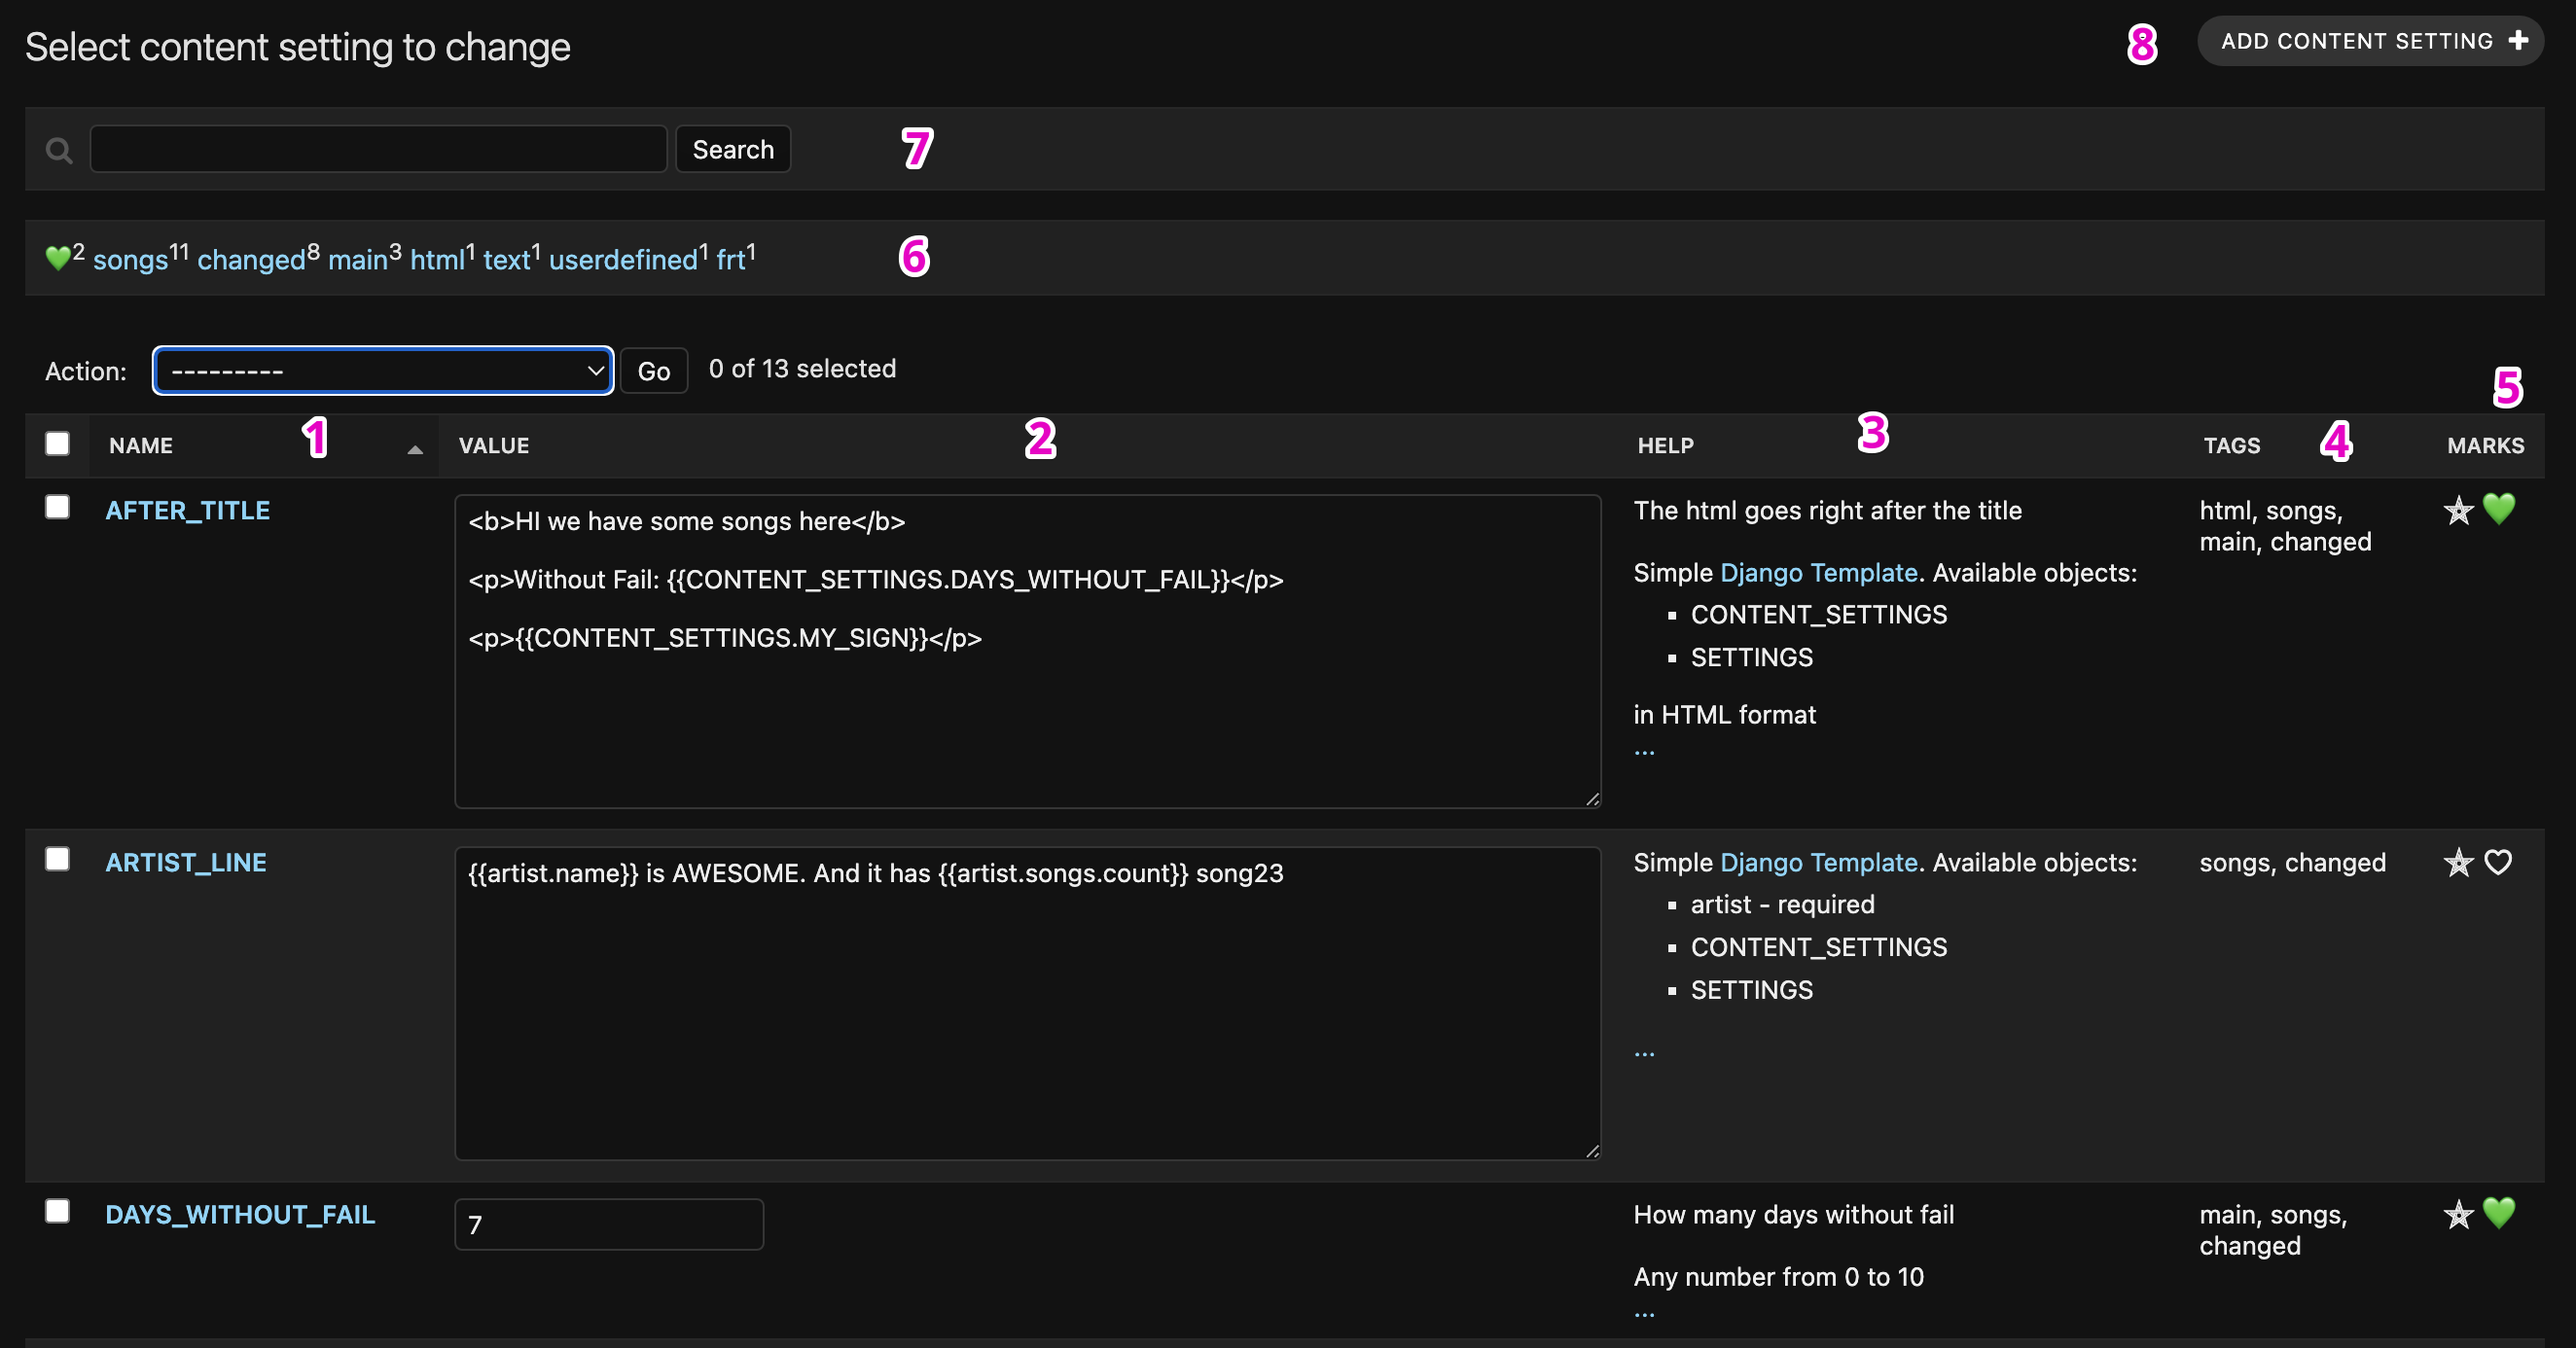
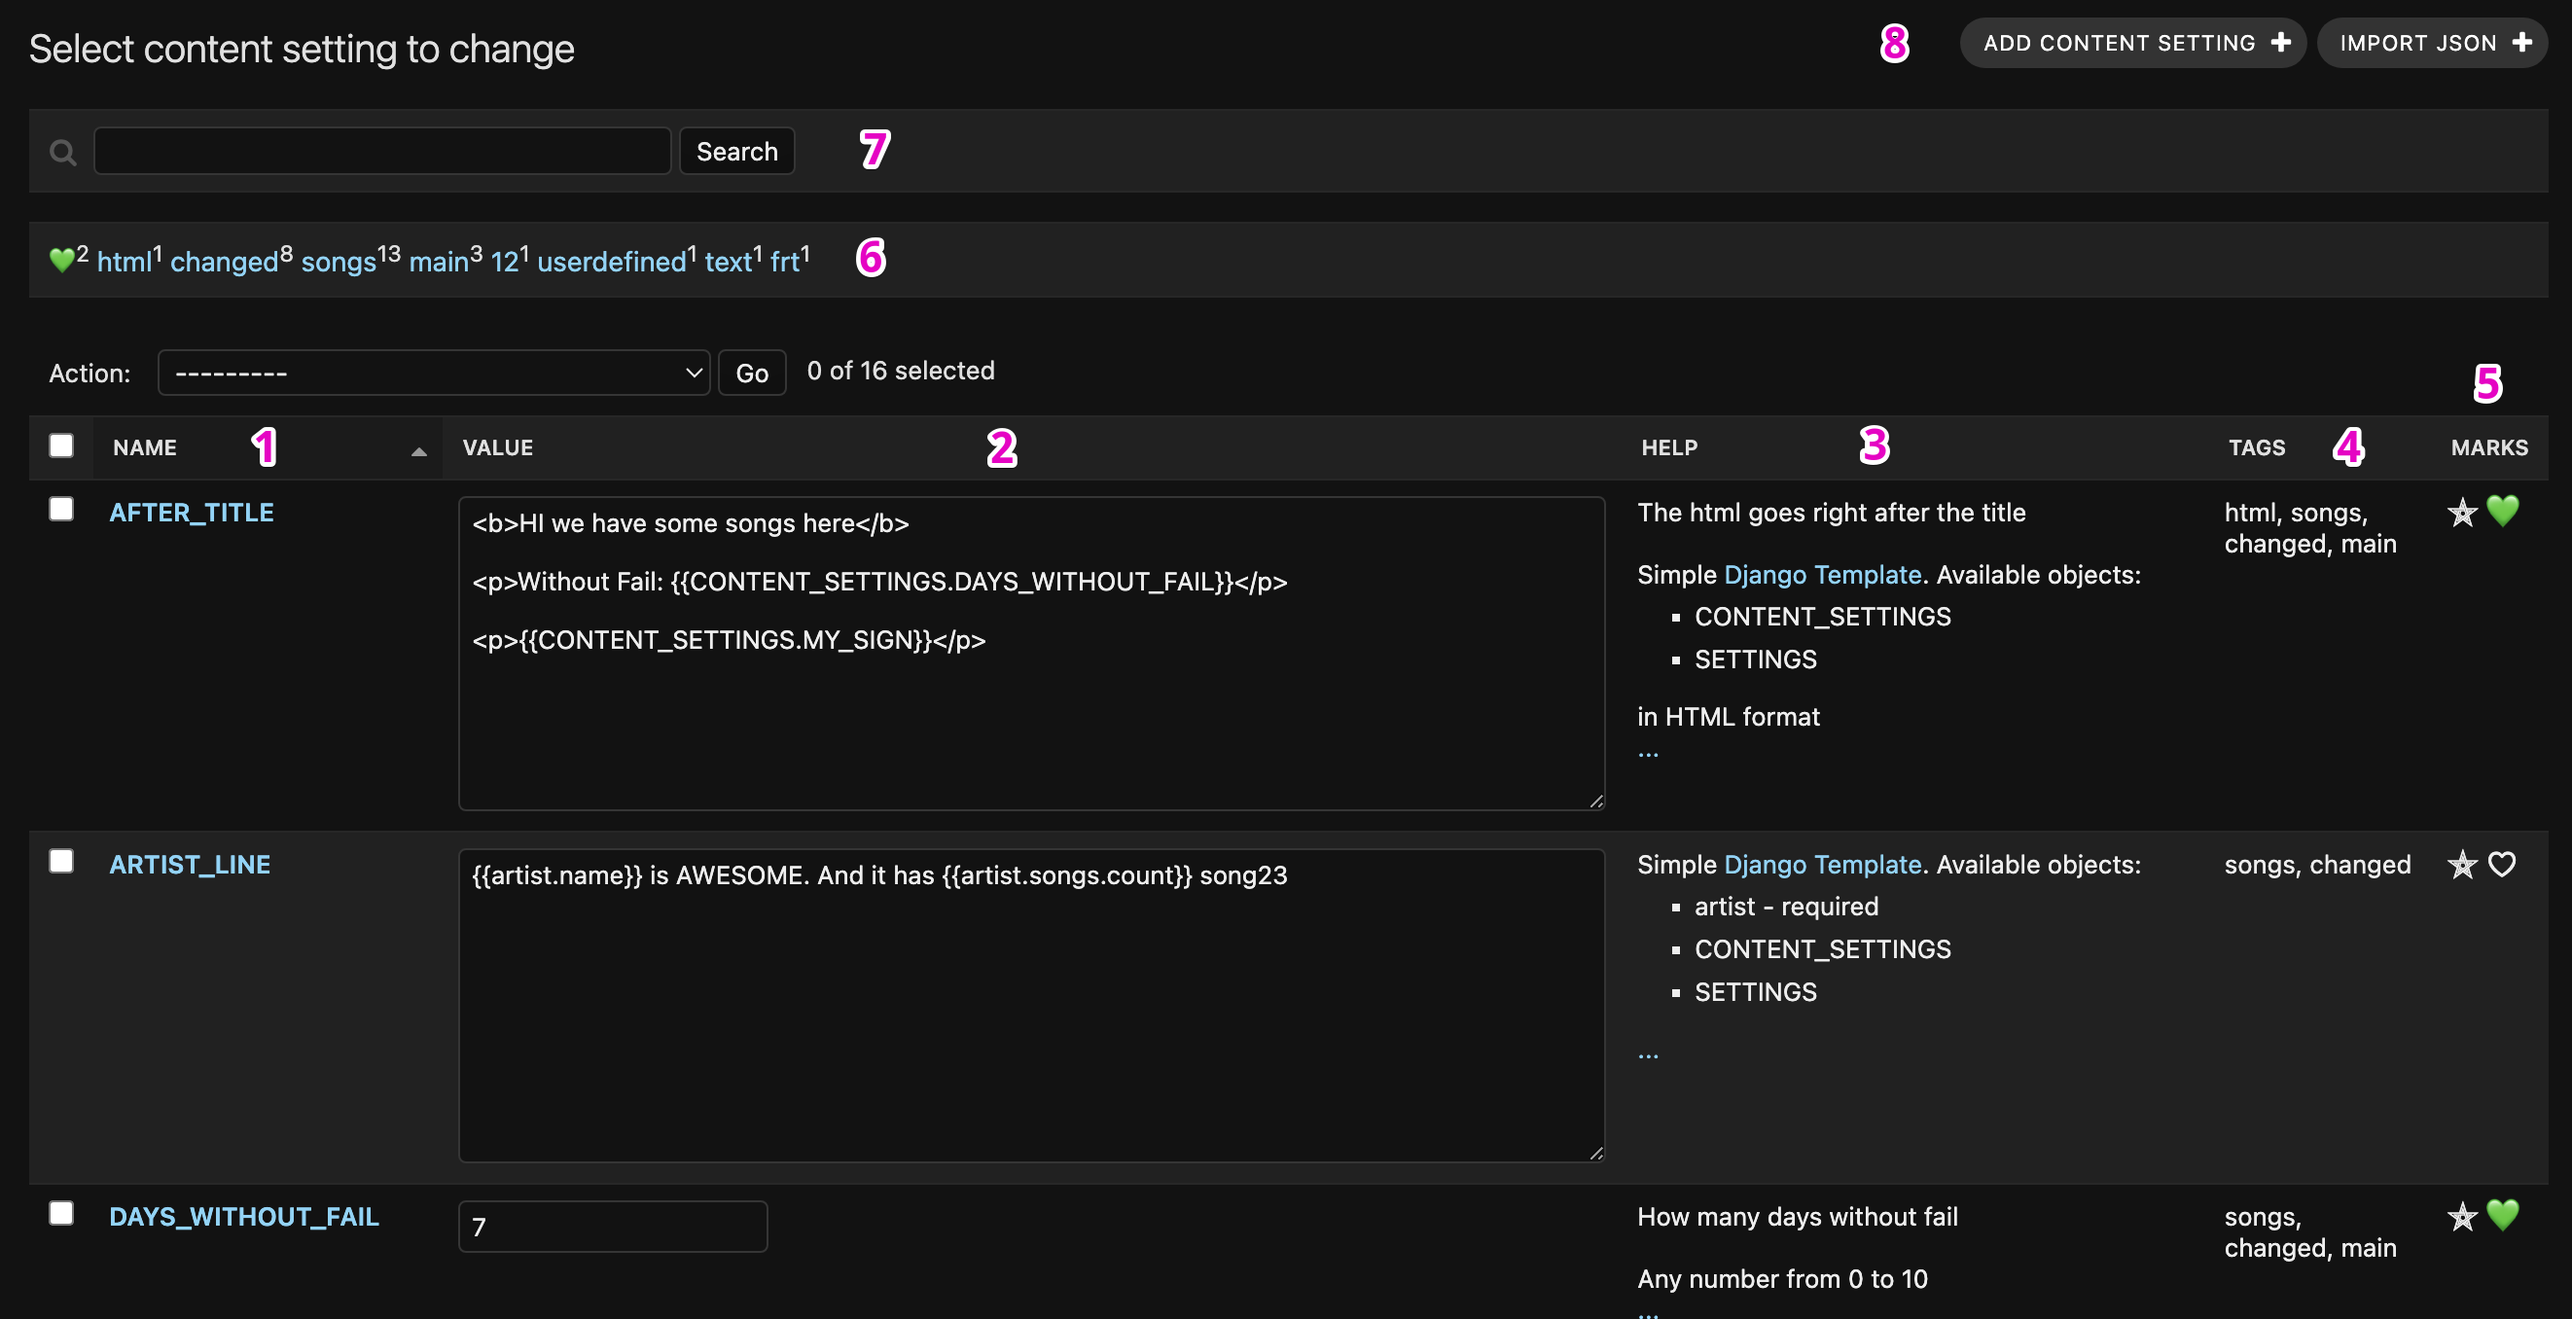
fix style, permissions and applied attributes

diff --git a/content_settings/templates/admin/content_settings/contentsetting/import_json.html b/content_settings/templates/admin/content_settings/contentsetting/import_json.html
@@ -1,6 +1,28 @@
 {% extends "admin/base_site.html" %}
 {% load i18n admin_urls %}
 
+
+{% block extrastyle %}
+  {{ block.super }}
+<style>
+.import_json_errors {
+    color: var(--body-fg);
+    background-color: var(--message-error-bg);
+    padding: 10px;
+}
+.import_json_applied {
+    color: var(--body-fg);
+    background-color: var(--message-success-bg);
+    padding: 10px;
+}
+.import_json_skipped {
+    color: var(--body-fg);
+    background-color: var(--message-warning-bg);
+    padding: 10px;
+}
+</style>
+{% endblock %}
+
 {% block content %}
 <div id="content-main">
     <form action="{% url 'admin:content_settings_import_json' %}" method="post" enctype="multipart/form-data">
@@ -18,23 +40,27 @@
             </div>
         </fieldset>
         {% if errors %}
-            <h2>{% trans "Errors" %}</h2>
-            <table>
-                <tr>
-                    <th>{% trans "Name" %}</th>
-                    <th>{% trans "Reason" %}</th>
-                </tr>
-                {% for error in errors %}
+            <h2 class="import_json_errors">{% trans "Errors" %}</h2>
+            <table style="width: 100%;">
+                <thead>
                     <tr>
+                        <th>{% trans "Name" %}</th>
+                        <th>{% trans "Reason" %}</th>
+                    </tr>
+                </thead>
+                <tbody>
+                    {% for error in errors %}
+                        <tr>
                         <td>{{ error.name }}</td>
                         <td>{{ error.reason }}</td>
-                    </tr>
-                {% endfor %}
+                        </tr>
+                    {% endfor %}
+                </tbody>
             </table>
         {% endif %}
         {% if applied %}
-            <h2>{% trans "Applied Changes" %}</h2>
-            <table>
+            <h2 class="import_json_applied">{% trans "Applied Changes" %}</h2>
+            <table style="width: 100%;">
                 <thead>
                     <tr>
                         <th>&nbsp;</th>
@@ -56,24 +82,31 @@
             </table>
         {% endif %}
         {% if skipped %}
-            <h2>{% trans "Skipped" %}</h2>
-            <table>
-                <tr>
-                    <th>{% trans "Name" %}</th>
-                    <th>{% trans "Reason" %}</th>
-                </tr>
-                {% for item in skipped %}
+            <h2 class="import_json_skipped">{% trans "Skipped" %}</h2>
+            <table style="width: 100%;">
+                <thead>
                     <tr>
-                        <td>{{ item.name }}</td>
-                        <td>{{ item.reason }}</td>
+                        <th>{% trans "Name" %}</th>
+                        <th>{% trans "Reason" %}</th>
                     </tr>
-                {% endfor %}
+                </thead>
+                <tbody>
+                    {% for item in skipped %}
+                        <tr>
+                            <td>{{ item.name }}</td>
+                            <td>{{ item.reason }}</td>
+                        </tr>
+                    {% endfor %}
+                </tbody>
             </table>
         {% endif %}
-        <div class="submit-row">
+        <div class="submit-row" style="margin-top: 20px;">
             <input type="submit" value="{% trans 'Preview' %}" class="default" name="_preview">
-            {% if applied and preview_on_site_allowed %}
-                <input id="preview_on_site" type="checkbox" name="preview_on_site" checked> <label for="preview_on_site">{% trans "Preview on Site" %}</label>
+            {% if applied %}
+                {% if preview_on_site_allowed %}
+                    &nbsp;&nbsp;&nbsp;
+                    <input id="preview_on_site" type="checkbox" name="preview_on_site" checked> <label for="preview_on_site">{% trans "Preview on Site" %}</label>
+                {% endif %}
                 <input type="submit" value="{% trans 'Import' %}" class="default" name="_import">
             {% endif %}
         </div>

diff --git a/tests/test_admin_import.py b/tests/test_admin_import.py
@@ -242,6 +242,23 @@ def test_value_imported(webtest_admin):
     assert ContentSetting.objects.get(name="XARCHER_DEVIDER").value == "9"
 
 
+def test_value_imported_not_applied(webtest_admin):
+    resp = webtest_admin.post(
+        "/admin/content_settings/contentsetting/import-json/",
+        {
+            "raw_json": json.dumps(
+                {"settings": {"XARCHER_DEVIDER": {"value": "9", "version": ""}}}
+            ),
+            "_applied": [],
+            "_import": "Import",
+        },
+    )
+
+    assert resp.status_int == 302
+    assert resp.location.endswith("/admin/content_settings/contentsetting/")
+    assert ContentSetting.objects.get(name="XARCHER_DEVIDER").value == "10"
+
+
 @pytest.mark.skipif(
     testing_settings_min, reason="Only for non minimal testing settings"
 )
@@ -262,6 +279,30 @@ def test_value_imported_preview(webtest_admin, testadmin):
     assert resp.location.endswith("/admin/content_settings/contentsetting/")
     assert ContentSetting.objects.get(name="XARCHER_DEVIDER").value == "10"
     assert UserPreview.objects.filter(user=testadmin, name="XARCHER_DEVIDER").exists()
+
+
+@pytest.mark.skipif(
+    testing_settings_min, reason="Only for non minimal testing settings"
+)
+def test_value_imported_preview_not_applied(webtest_admin, testadmin):
+    resp = webtest_admin.post(
+        "/admin/content_settings/contentsetting/import-json/",
+        {
+            "raw_json": json.dumps(
+                {"settings": {"XARCHER_DEVIDER": {"value": "9", "version": ""}}}
+            ),
+            "_applied": [],
+            "_import": "Import",
+            "preview_on_site": "1",
+        },
+    )
+
+    assert resp.status_int == 302
+    assert resp.location.endswith("/admin/content_settings/contentsetting/")
+    assert ContentSetting.objects.get(name="XARCHER_DEVIDER").value == "10"
+    assert not UserPreview.objects.filter(
+        user=testadmin, name="XARCHER_DEVIDER"
+    ).exists()
 
 
 @pytest.mark.skipif(

diff --git a/content_settings/admin.py b/content_settings/admin.py
@@ -1,7 +1,6 @@
 from typing import Any
 import urllib.parse
 from collections import defaultdict
-import inspect
 import json
 
 from django.contrib import admin
@@ -184,6 +183,10 @@ class ContentSettingAdmin(admin.ModelAdmin):
         data = {}
         data_settings = data["settings"] = {}
         for cs in queryset:
+            cs_type = get_type_by_name(cs.name)
+            if cs_type is None or not cs_type.can_view(request.user):
+                continue
+
             if cs.user_defined_type:
                 data_settings[cs.name] = {
                     "value": cs.value,
@@ -843,6 +846,7 @@ class ContentSettingAdmin(admin.ModelAdmin):
         The sources of the format can be different:
         * JSON file
         * JSON text field
+        * ids of HistoryContentSetting records
 
         The view assumes that all of the data is migrated and values in database are aligned with the types.
 
@@ -1118,6 +1122,8 @@ class ContentSettingAdmin(admin.ModelAdmin):
 
             if request.POST.get("preview_on_site"):
                 for value in applied:
+                    if value["name"] not in applied_names:
+                        continue
                     UserPreview.add_by_user(
                         user=request.user,
                         name=value["name"],
@@ -1131,6 +1137,8 @@ class ContentSettingAdmin(admin.ModelAdmin):
                 )
             else:
                 for value in applied:
+                    if value["name"] not in applied_names:
+                        continue
                     cs = ContentSetting.objects.filter(name=value["name"]).first()
                     if not cs:
                         cs = ContentSetting(name=value["name"])
